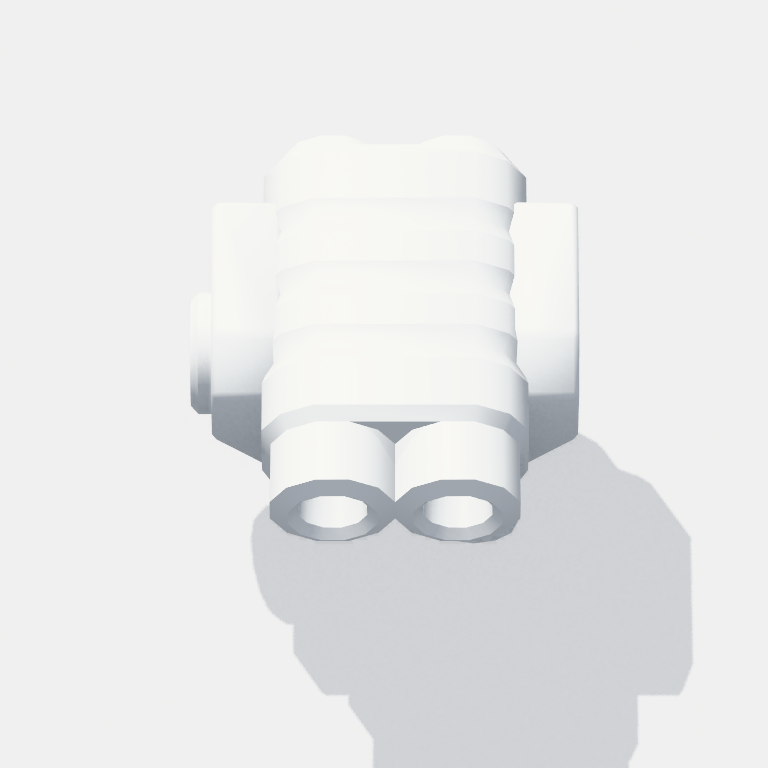
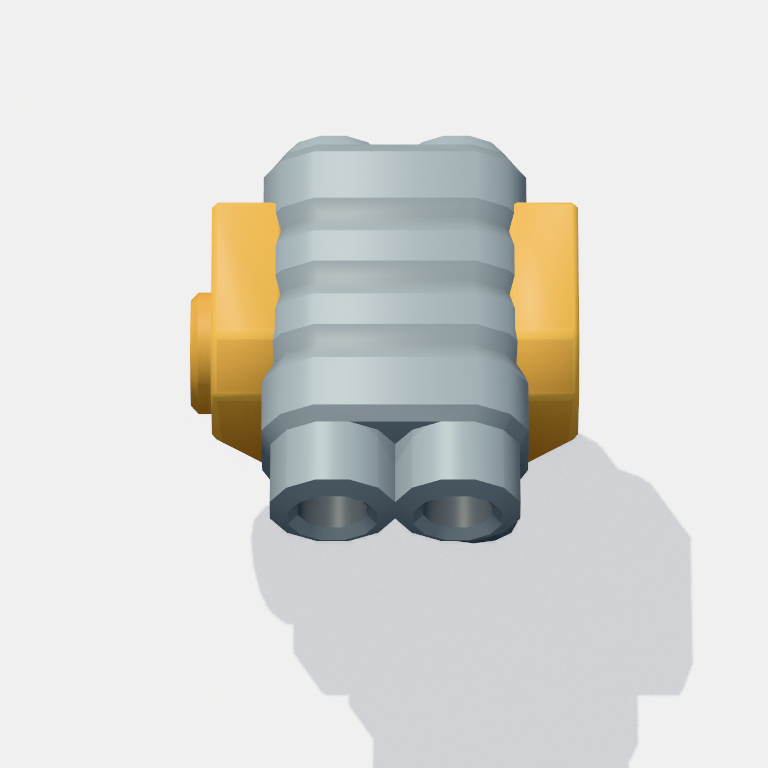
fix gltf assets

Changed region(s): [[0.25, 0.1562, 0.7812, 0.7188]]

diff --git a/tests/AssetManifestTests.cpp b/tests/AssetManifestTests.cpp
@@ -3,6 +3,7 @@
 
 #include "engine/AssetManifest.hpp"
 #include "engine/render/GltfMesh.hpp"
+#include "engine/render/RuntimeTextureCatalog.hpp"
 
 #include <nlohmann/json.hpp>
 
@@ -138,6 +139,18 @@ void testValidManifest()
     const sokoban::RenderModel box = manifest.modelIdByName("Box");
     CHECK_MESSAGE(manifest.model(box).preserveSourceScale,
         "box preserves authored source scale");
+    CHECK_MESSAGE(
+        manifest.model(box).materialMode == sokoban::ModelMaterialMode::Auto,
+        "models use their authored glTF material by default");
+
+    Json explicitNone = Json::parse(validManifest);
+    explicitNone["models"][0]["material"] = { { "mode", "none" } };
+    const sokoban::AssetManifest withoutAuthoredMaterial =
+        sokoban::AssetManifest::parse(explicitNone.dump());
+    CHECK_MESSAGE(
+        withoutAuthoredMaterial.model(box).materialMode ==
+            sokoban::ModelMaterialMode::Untextured,
+        "explicit none disables authored glTF material textures");
 
     const sokoban::RenderModel hero = manifest.modelIdByName("Hero");
     CHECK_MESSAGE(!hero.isCube(), "hero id valid");
@@ -558,6 +571,41 @@ void testRealManifestFile()
     CHECK_MESSAGE(!manifest.modelForTile(sokoban::TileType::Wall).isCube(), "real manifest wall model");
     CHECK_MESSAGE(manifest.modelForTile(sokoban::TileType::Decorative).isCube(),
         "real manifest decorative block defaults to procedural cube");
+
+    const sokoban::RenderModel turret = manifest.modelIdByName("Turret");
+    CHECK_MESSAGE(
+        manifest.model(turret).materialMode == sokoban::ModelMaterialMode::Auto,
+        "turret uses its authored glTF material without a manifest override");
+    const sokoban::RuntimeTextureCatalog runtimeTextures =
+        sokoban::collectRuntimeTextureCatalog(*root, manifest);
+    const sokoban::RuntimeModelTextures& turretTextures =
+        runtimeTextures.model(static_cast<uint32_t>(turret.index()));
+    CHECK_MESSAGE(
+        turretTextures.materialMode ==
+            sokoban::ModelMaterialMode::PrimitiveMaterials,
+        "turret authored material resolves to the glTF draw path");
+    CHECK_MESSAGE(
+        !turretTextures.primitiveMaterials.empty() &&
+            turretTextures.primitiveMaterials[0].bindBaseColorTexture,
+        "turret authored base-color image is bound automatically");
+    if (!turretTextures.primitiveMaterials.empty() &&
+        turretTextures.primitiveMaterials[0].bindBaseColorTexture) {
+        const sokoban::RuntimeTextureDefinition& texture =
+            runtimeTextures.textures().at(
+                turretTextures.primitiveMaterials[0].textureIndex);
+        const auto* external = std::get_if<sokoban::ExternalTextureSource>(
+            &texture.identity.source);
+        CHECK_MESSAGE(
+            external != nullptr &&
+                external->path.filename() == "engineer_texture.png",
+            "turret glTF resolves its own engineer texture");
+        CHECK_MESSAGE(
+            texture.identity.interpretation.magFilter ==
+                    sokoban::TextureMagnificationFilter::Linear &&
+                texture.identity.interpretation.minFilter ==
+                    sokoban::TextureMinificationFilter::LinearMipmapLinear,
+            "turret glTF sampler settings survive runtime discovery");
+    }
 
     const AssetManifest::Animation& death =
         manifest.animation(manifest.playerDeathAnimation());

diff --git a/src/engine/render/RuntimeTextureCatalog.cpp b/src/engine/render/RuntimeTextureCatalog.cpp
@@ -111,6 +111,9 @@ RuntimeTextureCatalog buildRuntimeTextureCatalog(
         const AssetManifest::Model& definition = manifest.models()[index];
         modelsByDocument[documentKey(definition.path)].push_back(index);
         RuntimeModelTextures& model = catalog.models_[index];
+        model.materialMode = definition.materialMode == ModelMaterialMode::Auto
+            ? ModelMaterialMode::PrimitiveMaterials
+            : definition.materialMode;
         model.primitiveMaterials.resize(definition.primitiveMaterials.size());
         for (PrimitiveMaterialBinding& binding : model.primitiveMaterials) {
             binding.bindBaseColorTexture = false;
@@ -138,8 +141,17 @@ RuntimeTextureCatalog buildRuntimeTextureCatalog(
 
     for (const ResolvedMaterialTexture& texture : materialTextures) {
         const auto modelsIt = modelsByDocument.find(documentKey(texture.document));
-        if (modelsIt == modelsByDocument.end() ||
-            texture.semantic == MaterialTextureSemantic::BaseColor) {
+        if (modelsIt == modelsByDocument.end()) {
+            continue;
+        }
+        const auto acceptsTexture = [&](uint32_t modelIndex) {
+            const ModelMaterialMode mode =
+                manifest.models()[modelIndex].materialMode;
+            return mode != ModelMaterialMode::Untextured &&
+                (texture.semantic != MaterialTextureSemantic::BaseColor ||
+                    mode == ModelMaterialMode::Auto);
+        };
+        if (std::ranges::none_of(modelsIt->second, acceptsTexture)) {
             continue;
         }
 
@@ -166,6 +178,11 @@ RuntimeTextureCatalog buildRuntimeTextureCatalog(
         }
 
         for (uint32_t modelIndex : modelsIt->second) {
+            // `none` is an explicit opt-out. Manifest base-colour mappings are
+            // overrides, while every other core map can still augment them.
+            if (!acceptsTexture(modelIndex)) {
+                continue;
+            }
             RuntimeModelTextures& model = catalog.models_[modelIndex];
             if (model.primitiveMaterials.size() <= texture.materialIndex) {
                 const std::size_t previousSize =
@@ -181,6 +198,10 @@ RuntimeTextureCatalog buildRuntimeTextureCatalog(
             PrimitiveMaterialBinding& binding =
                 model.primitiveMaterials[texture.materialIndex];
             switch (texture.semantic) {
+            case MaterialTextureSemantic::BaseColor:
+                binding.textureIndex = logicalIndex;
+                binding.bindBaseColorTexture = true;
+                break;
             case MaterialTextureSemantic::Normal:
                 binding.normalTextureIndex = logicalIndex;
                 break;
@@ -192,8 +213,6 @@ RuntimeTextureCatalog buildRuntimeTextureCatalog(
                 break;
             case MaterialTextureSemantic::Occlusion:
                 binding.occlusionTextureIndex = logicalIndex;
-                break;
-            case MaterialTextureSemantic::BaseColor:
                 break;
             }
             requireOnce(model.requiredTextures, logicalIndex);

diff --git a/tests/RuntimeTextureCatalogTests.cpp b/tests/RuntimeTextureCatalogTests.cpp
@@ -114,6 +114,8 @@ void testBuildsDeduplicatedPerModelCatalog()
     const TextureSourceIdentity emissive =
         identity("maps/packed.png", TextureColorSpace::Srgb);
     const TextureSourceIdentity crateNormal = identity("maps/crate.png");
+    const TextureSourceIdentity crateBase =
+        identity("maps/crate-base.png", TextureColorSpace::Srgb);
     const TextureSourceIdentity ignoredBase =
         identity("maps/gltf-base.png", TextureColorSpace::Srgb);
     const std::vector<ResolvedMaterialTexture> materialTextures {
@@ -127,13 +129,15 @@ void testBuildsDeduplicatedPerModelCatalog()
             MaterialTextureSemantic::BaseColor, ignoredBase),
         materialTexture("models/crate.glb", 0,
             MaterialTextureSemantic::Normal, crateNormal),
+        materialTexture("models/crate.glb", 0,
+            MaterialTextureSemantic::BaseColor, crateBase),
     };
 
     const RuntimeTextureCatalog catalog =
         buildRuntimeTextureCatalog(manifest, materialTextures);
     CHECK(catalog.manifestTextureCount() == 3U);
-    CHECK(catalog.discoveredTextureCount() == 3U);
-    CHECK(catalog.textures().size() == 6U);
+    CHECK(catalog.discoveredTextureCount() == 4U);
+    CHECK(catalog.textures().size() == 7U);
 
     const RuntimeModelTextures& hero = catalog.model(0);
     const RuntimeModelTextures& belt = catalog.model(1);
@@ -147,8 +151,9 @@ void testBuildsDeduplicatedPerModelCatalog()
     CHECK(contains(belt.requiredTextures, 3U));
     CHECK(contains(belt.requiredTextures, 4U));
     CHECK(!contains(belt.requiredTextures, 5U));
-    CHECK(crate.requiredTextures.size() == 1U);
-    CHECK(crate.requiredTextures[0] == 5U);
+    CHECK(crate.requiredTextures.size() == 2U);
+    CHECK(contains(crate.requiredTextures, 5U));
+    CHECK(contains(crate.requiredTextures, 6U));
 
     CHECK(hero.primitiveMaterials[0].normalTextureIndex == 3U);
     CHECK(hero.primitiveMaterials[0].occlusionTextureIndex == 3U);
@@ -158,12 +163,17 @@ void testBuildsDeduplicatedPerModelCatalog()
     CHECK(belt.primitiveMaterials[0].textureIndex == 1U);
     CHECK(belt.primitiveMaterials[1].textureIndex == 2U);
     CHECK(belt.primitiveMaterials[1].flags == PrimitiveMaterialScrollV);
+    CHECK(crate.materialMode == ModelMaterialMode::PrimitiveMaterials);
+    CHECK(crate.primitiveMaterials[0].bindBaseColorTexture);
+    CHECK(crate.primitiveMaterials[0].textureIndex == 6U);
+    CHECK(crate.primitiveMaterials[0].normalTextureIndex == 5U);
 
     CHECK(catalog.descriptorIndex(0, 12) == 0U);
     CHECK(catalog.descriptorIndex(2, 12) == 2U);
-    CHECK(catalog.descriptorIndex(3, 12) == 9U);
-    CHECK(catalog.descriptorIndex(5, 12) == 11U);
-    checkThrows([&] { (void)catalog.descriptorIndex(6, 12); });
+    CHECK(catalog.descriptorIndex(3, 12) == 8U);
+    CHECK(catalog.descriptorIndex(5, 12) == 10U);
+    CHECK(catalog.descriptorIndex(6, 12) == 11U);
+    checkThrows([&] { (void)catalog.descriptorIndex(7, 12); });
     checkThrows([&] { (void)catalog.descriptorIndex(3, 5); });
 }
 

diff --git a/src/engine/render/VulkanModelResources.cpp b/src/engine/render/VulkanModelResources.cpp
@@ -237,6 +237,7 @@ void VulkanModelResources::create(
     }
     modelTextureDependencies_.resize(models_.size());
     modelMaterialBindings_.resize(models_.size());
+    modelMaterialModes_.resize(models_.size());
     for (uint32_t modelIndex = 0; modelIndex < models_.size(); ++modelIndex) {
         models_[modelIndex].sourceBytes = modelSourceBytes(
             assetRoot_, manifest.models()[modelIndex]);
@@ -247,6 +248,7 @@ void VulkanModelResources::create(
             std::move(mapped.requiredTextures);
         modelMaterialBindings_[modelIndex] =
             std::move(mapped.primitiveMaterials);
+        modelMaterialModes_[modelIndex] = mapped.materialMode;
     }
     for (uint32_t animationIndex = 0;
          animationIndex < animations_.size();
@@ -373,6 +375,7 @@ void VulkanModelResources::destroy()
     textureDefinitions_.clear();
     modelTextureDependencies_.clear();
     modelMaterialBindings_.clear();
+    modelMaterialModes_.clear();
     materialStorage_.clear();
     materialRanges_.reset(0);
     fallbackTexture_ = {};
@@ -1506,7 +1509,9 @@ VulkanModelResources::MaterialBinding VulkanModelResources::materialForModel(
         ? models_[model.index()].materialPolicy
         : ModelMaterialPolicy {};
     return {
-        .mode = definition.materialMode,
+        .mode = model.index() < modelMaterialModes_.size()
+            ? modelMaterialModes_[model.index()]
+            : ModelMaterialMode::Untextured,
         .textureIndex = definition.textureIndex,
         .materialBase = materialBase,
         .policy = policy,
@@ -2069,6 +2074,7 @@ bool VulkanModelResources::syncManifestModels()
     models_.resize(manifest_->models().size());
     modelTextureDependencies_.resize(models_.size());
     modelMaterialBindings_.resize(models_.size());
+    modelMaterialModes_.resize(models_.size());
     for (std::size_t modelIndex = previousSize;
          modelIndex < models_.size();
          ++modelIndex) {
@@ -2082,6 +2088,7 @@ bool VulkanModelResources::syncManifestModels()
             std::move(mapped.requiredTextures);
         modelMaterialBindings_[modelIndex] =
             std::move(mapped.primitiveMaterials);
+        modelMaterialModes_[modelIndex] = mapped.materialMode;
     }
     for (uint32_t textureIndex : textureSpace_.active()) {
         if (textures_[textureIndex].sourceBytes == 0 &&

diff --git a/src/engine/AssetManifest.hpp b/src/engine/AssetManifest.hpp
@@ -36,11 +36,20 @@ enum class ModelMaterialMode : uint32_t {
     Untextured = 0,
     SingleTexture = 1,
     PrimitiveMaterials = 2,
+    // Use the materials and textures authored in the glTF. This is the
+    // default for imported models; the other values are explicit manifest
+    // overrides (including Untextured, from material.mode = "none").
+    Auto = 3,
 };
 
 [[nodiscard]] constexpr float shaderValue(ModelMaterialMode mode)
 {
-    return static_cast<float>(mode);
+    // Auto is resolved to one of the three draw modes by the runtime texture
+    // catalog. Keep this fallback on the glTF path so an unresolved value can
+    // never collide with the UI-only draw mode that also has numeric value 3.
+    return mode == ModelMaterialMode::Auto
+        ? static_cast<float>(ModelMaterialMode::PrimitiveMaterials)
+        : static_cast<float>(mode);
 }
 
 // Runtime asset manifest: the single source of truth for model, texture,
@@ -89,7 +98,7 @@ public:
         bool rotateHalfTurn = false;
         bool playerRole = false; // the model gameplay animates as the player
         bool enemyRole = false; // the model gameplay animates as an enemy
-        ModelMaterialMode materialMode = ModelMaterialMode::Untextured;
+        ModelMaterialMode materialMode = ModelMaterialMode::Auto;
         uint32_t textureIndex = 0; // resolved single-texture descriptor index
         std::string materialTextureName; // as written in the manifest
         // Entry N describes glTF material N. Texture names resolve once during

diff --git a/src/engine/render/GltfMesh.hpp b/src/engine/render/GltfMesh.hpp
@@ -48,8 +48,9 @@ struct PrimitiveMaterialBinding {
     // Kept adjacent to textureIndex for source compatibility with the
     // original two-field aggregate.
     uint32_t flags = PrimitiveMaterialNone;
-    // False for a map-only runtime binding. The manifest remains authoritative
-    // for base colour even when discovered glTF maps populate the other slots.
+    // False for a map-only runtime binding. An explicit manifest override
+    // remains authoritative; otherwise content discovery supplies the glTF's
+    // authored base-colour image here just like its other material maps.
     bool bindBaseColorTexture = true;
     // Optional zero-based descriptor indices for glTF-authored material maps.
     // Content discovery resolves these independently because one source image
@@ -71,9 +72,9 @@ enum class MaterialAlphaMode : uint32_t {
 // One glTF material, as authored.
 //
 // Factors, UV selections, and map-specific scalars come from the glTF. Map
-// handles come from content resolution: the manifest continues to own the
-// base-colour override while glTF dependency discovery supplies the other
-// maps. Handles are one-based descriptor indices, with zero meaning absent.
+// handles come from content resolution: glTF dependency discovery supplies
+// authored maps, while optional manifest entries can override base colour.
+// Handles are one-based descriptor indices, with zero meaning absent.
 struct MeshMaterial {
     Vec4 baseColorFactor { 1.0f, 1.0f, 1.0f, 1.0f };
     Vec3 emissiveFactor {};

diff --git a/tests/AssetManifestEditorTests.cpp b/tests/AssetManifestEditorTests.cpp
@@ -85,7 +85,7 @@ void testRoundTripAndMutations(const std::filesystem::path& sourceManifest)
                 model.attachments[0].rotateHalfTurn;
         }), "skinned attachment loaded");
     CHECK_MESSAGE(editor.animations().size() == 6, "animations loaded");
-    CHECK_MESSAGE(editor.tileEntries().size() == 14, "authored tile entries loaded");
+    CHECK_MESSAGE(editor.tileEntries().size() == 18, "authored tile entries loaded");
     CHECK_MESSAGE(editor.soundSets().size() == 3, "sound sets loaded");
     CHECK_MESSAGE(editor.musicTracks().size() == 4, "music tracks loaded");
     CHECK_MESSAGE(editor.validate(), "unchanged document validates");

diff --git a/src/engine/render/GltfMesh.cpp b/src/engine/render/GltfMesh.cpp
@@ -412,9 +412,9 @@ MaterialAlphaMode alphaModeFrom(cgltf_alpha_mode mode)
     }
 }
 
-// One glTF material plus whatever the manifest says its texture is. cgltf
-// fills its defaults from the spec, so an absent field arrives as the value
-// the spec says it has rather than as nothing.
+// One glTF material plus its resolved runtime textures. Those are normally
+// the images authored by the glTF, but a manifest base-colour override can
+// occupy the same binding. cgltf fills absent values from the spec defaults.
 MeshMaterial materialFrom(
     const cgltf_material* source,
     const PrimitiveMaterialBinding& binding,

diff --git a/src/engine/AssetManifestEditor.cpp b/src/engine/AssetManifestEditor.cpp
@@ -202,7 +202,11 @@ std::string AssetManifestEditor::serialize() const
         if (model.geometry == ModelGeometry::Skinned) {
             item["geometry"] = "skinned";
         }
-        if (model.materialMode == ModelMaterialMode::SingleTexture) {
+        if (model.materialMode == ModelMaterialMode::Untextured) {
+            item["material"] = {
+                { "mode", "none" },
+            };
+        } else if (model.materialMode == ModelMaterialMode::SingleTexture) {
             item["material"] = {
                 { "mode", "texture" },
                 { "texture", model.materialTextureName },

diff --git a/src/engine/render/RuntimeTextureCatalog.hpp b/src/engine/render/RuntimeTextureCatalog.hpp
@@ -28,6 +28,10 @@ struct RuntimeModelTextures {
     // to stable high descriptor slots after the device capacity is selected.
     std::vector<uint32_t> requiredTextures;
     std::vector<PrimitiveMaterialBinding> primitiveMaterials;
+    // Auto is resolved here and never reaches a draw. Keeping the effective
+    // mode beside the resolved bindings makes startup and editor-added models
+    // take exactly the same rendering path.
+    ModelMaterialMode materialMode = ModelMaterialMode::Untextured;
     uint64_t preparedBytes = 0;
 };
 

diff --git a/src/engine/AssetManifestDebugUi.cpp b/src/engine/AssetManifestDebugUi.cpp
@@ -38,7 +38,9 @@ bool drawGeometry(ModelGeometry& geometry)
 
 bool drawMaterialMode(ModelMaterialMode& mode)
 {
-    constexpr std::array labels { "None", "Texture", "Primitive Materials" };
+    constexpr std::array labels {
+        "None", "Texture Override", "Per-Material Overrides", "Authored glTF"
+    };
     int selected = static_cast<int>(mode);
     if (!ImGui::Combo("Material", &selected, labels.data(), static_cast<int>(labels.size()))) {
         return false;

diff --git a/src/engine/render/VulkanModelResources.hpp b/src/engine/render/VulkanModelResources.hpp
@@ -508,6 +508,7 @@ private:
     TextureDescriptorSpace textureSpace_;
     std::vector<std::vector<uint32_t>> modelTextureDependencies_;
     std::vector<std::vector<PrimitiveMaterialBinding>> modelMaterialBindings_;
+    std::vector<ModelMaterialMode> modelMaterialModes_;
     std::vector<TextureSlot> textures_;
     TextureResource fallbackTexture_ {};
     VulkanUploadRing uploadRing_ {};
